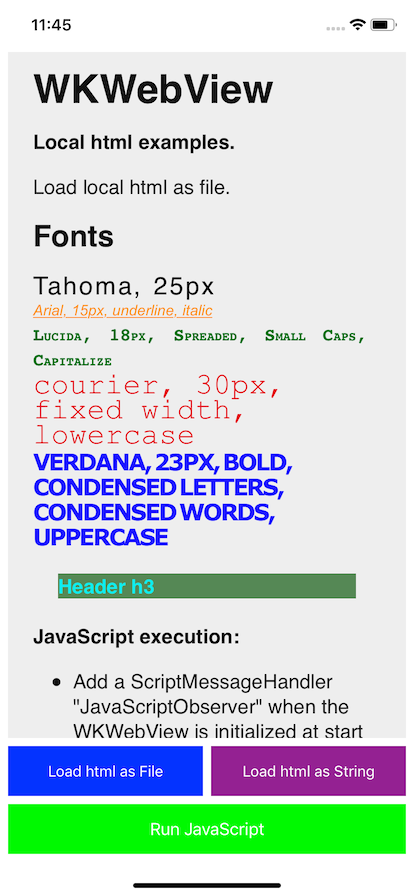
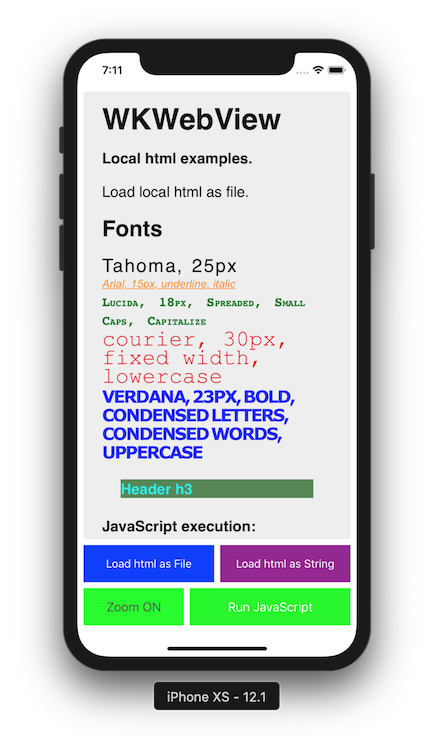
Update readme and screenshots for disable zoom example.

diff --git a/README.md b/README.md
@@ -25,9 +25,11 @@ Language: Swift 4.2.
 * Add ScriptMessageHandler in JavaScript
 * Callback from JavaScript
 * evaluateJavaScript errors handling
+* Disable / enable magnification gesture and zoom changes
 
-### Related blog post:
+### Related blog posts:
 [Displaying large blocks of text in Swift](https://svasilevkin.wordpress.com/2019/03/03/displaying-large-blocks-of-text-in-swift/)
+[WKWebView disable magnification gesture and zoom changes](https://svasilevkin.wordpress.com/2019/03/03/wkwebview-disable-magnification-gesture-and-zoom-changes/)
 
 
 ## Author
